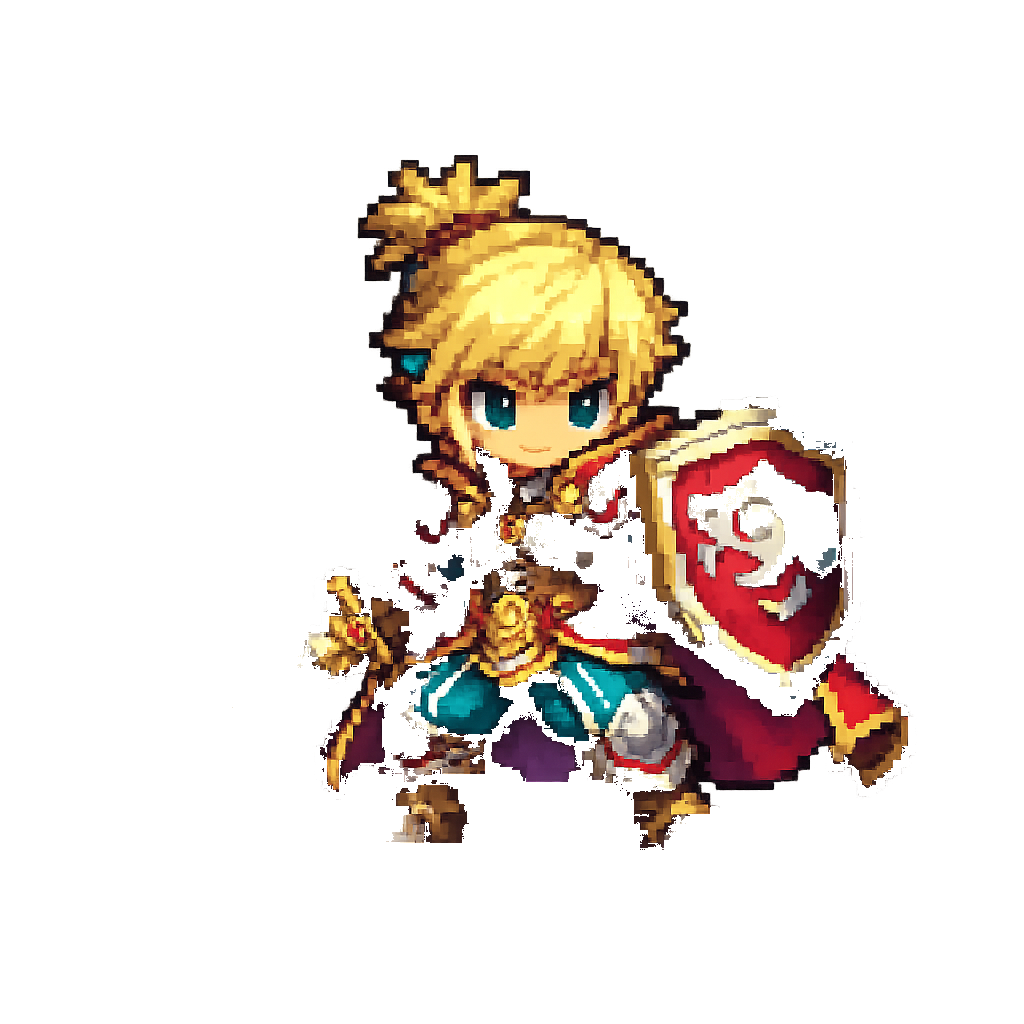
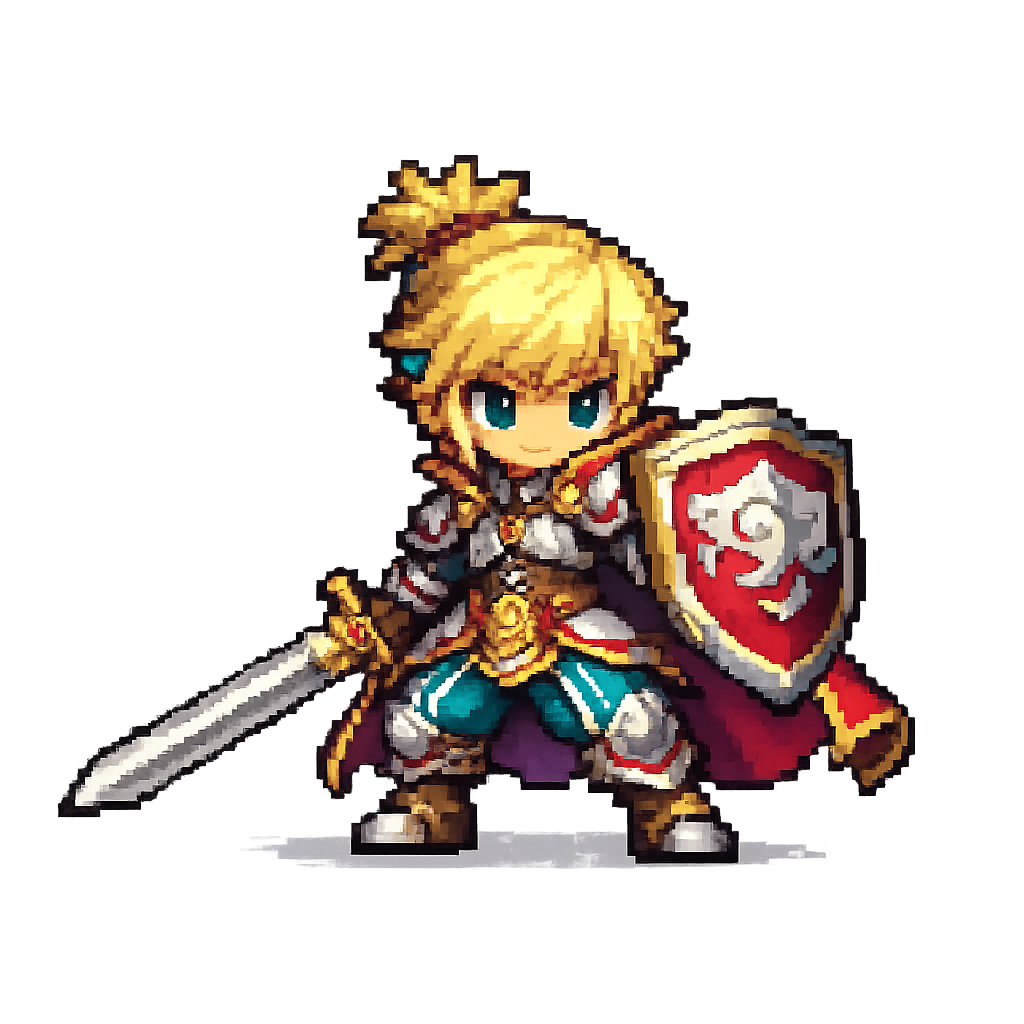
Quick preview: use raw warrior.png (no bg removal) + flip horizontal
Claude-Session: https://claude.ai/code/session_01V5h4i18FdVfXdsH9Dm7zzG

diff --git a/src/components/mascot/WarriorMascot.jsx b/src/components/mascot/WarriorMascot.jsx
@@ -33,7 +33,7 @@ export default function WarriorMascot({ message }) {
         // Scaling down with the viewport (while still landing on the full 130px at desktop
         // widths, where there's room) keeps it clear of both regardless of screen size, instead
         // of needing a separate mobile-specific breakpoint rule.
-        style={{ display: "block", imageRendering: "pixelated", width: "clamp(64px, 16vw, 130px)", height: "clamp(64px, 16vw, 130px)" }}
+        style={{ display: "block", imageRendering: "pixelated", transform: "scaleX(-1)", width: "clamp(64px, 16vw, 130px)", height: "clamp(64px, 16vw, 130px)" }}
       />
     </div>
   );
